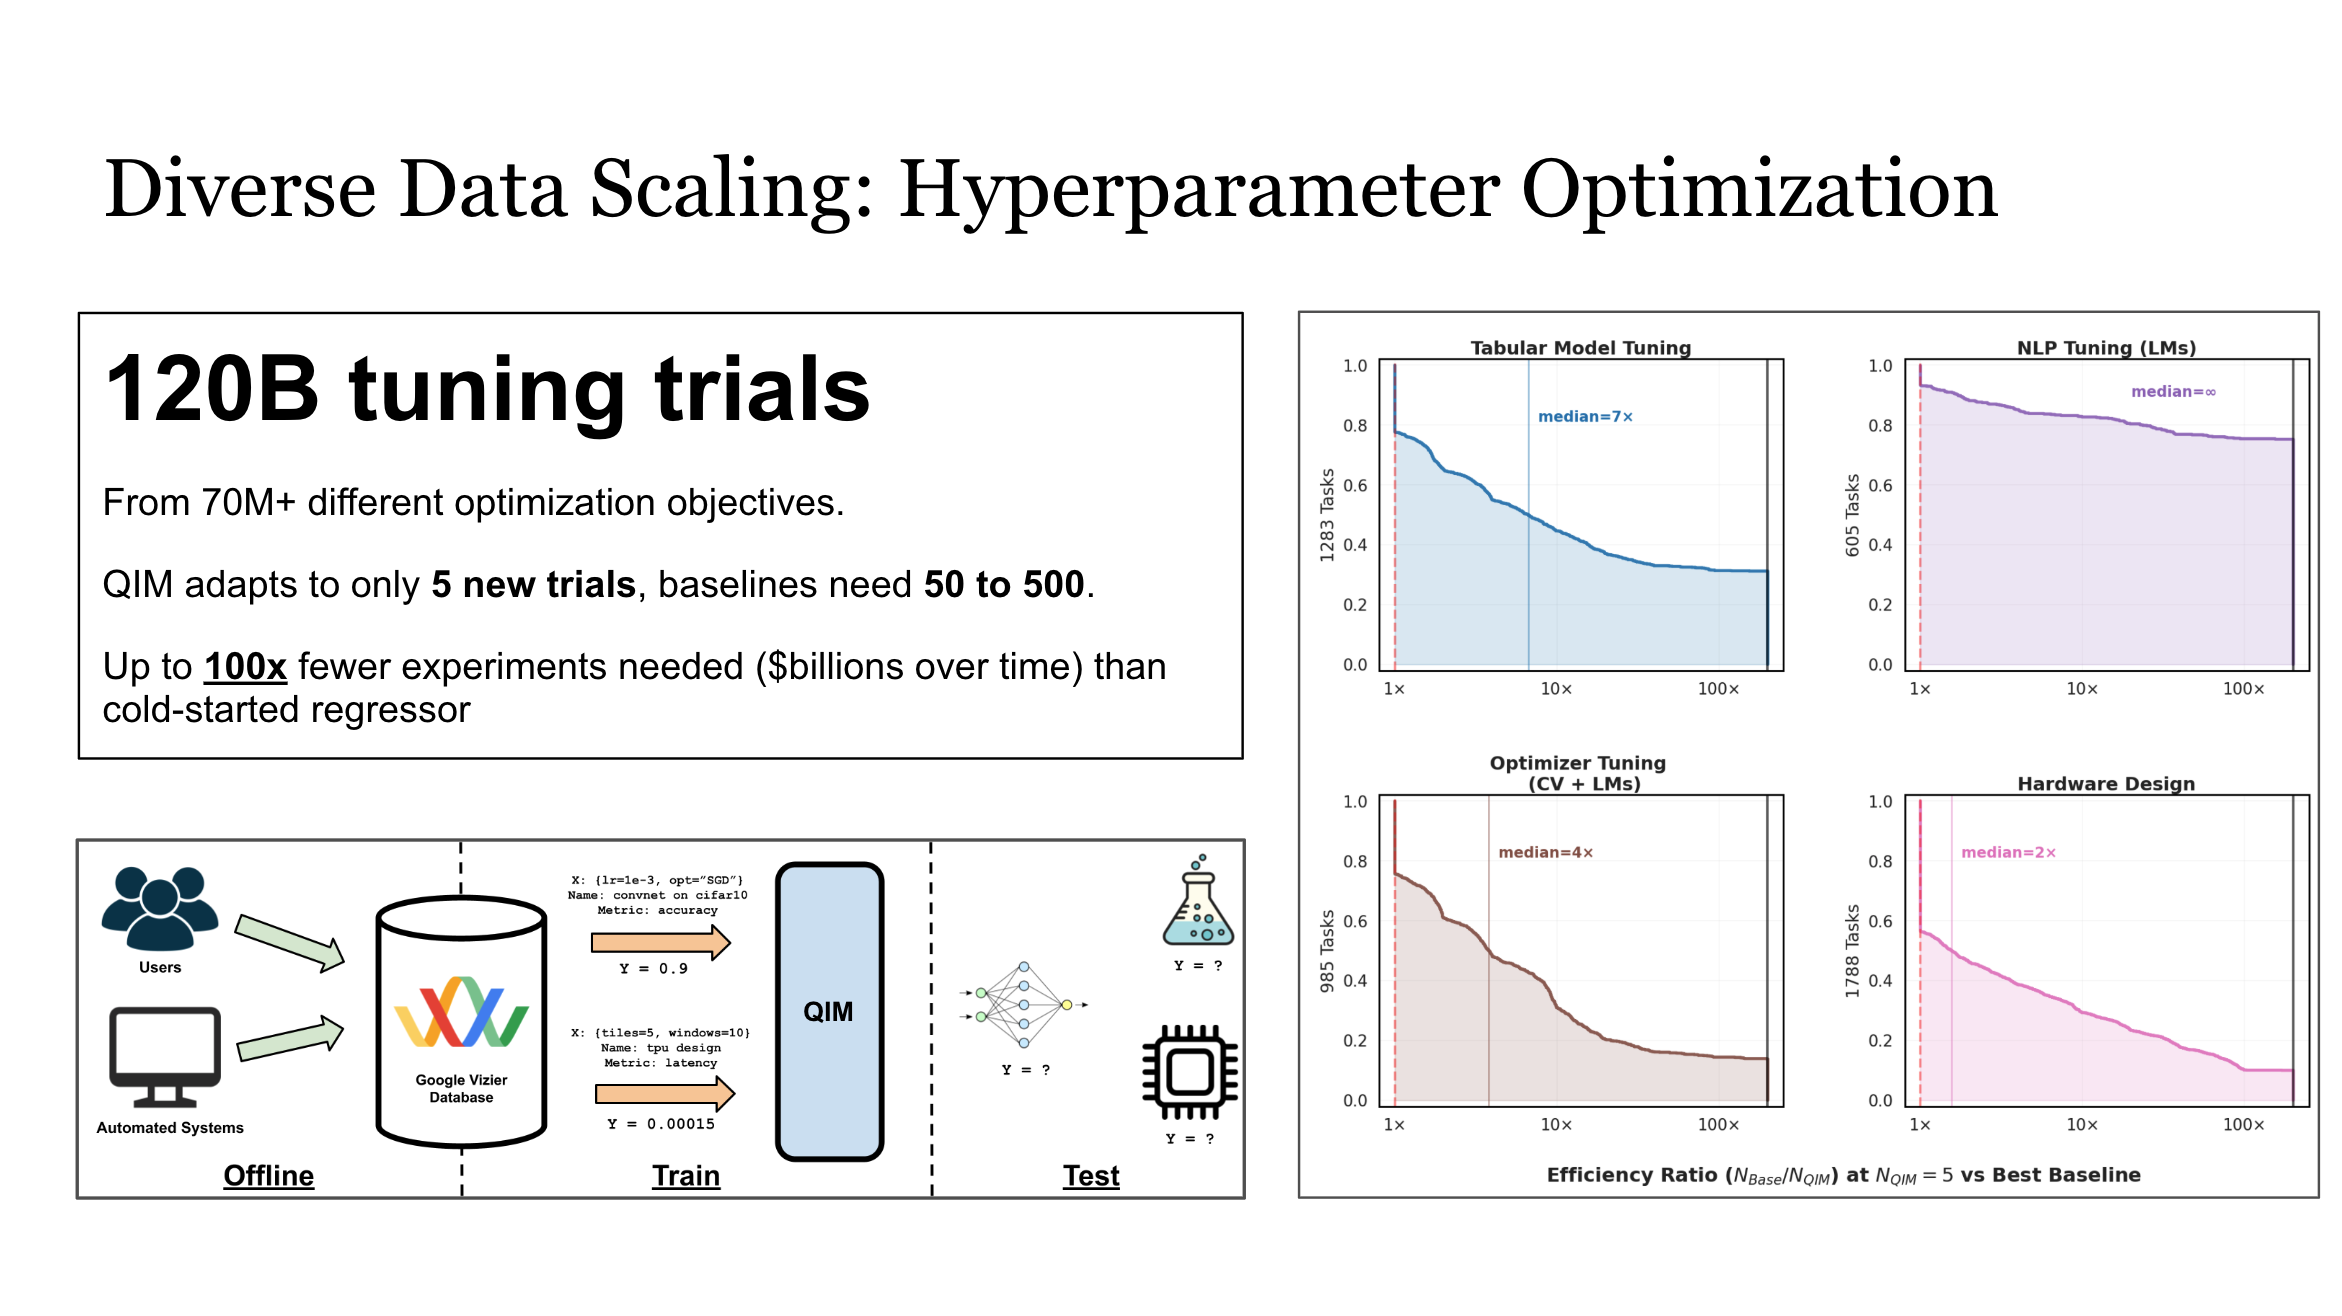
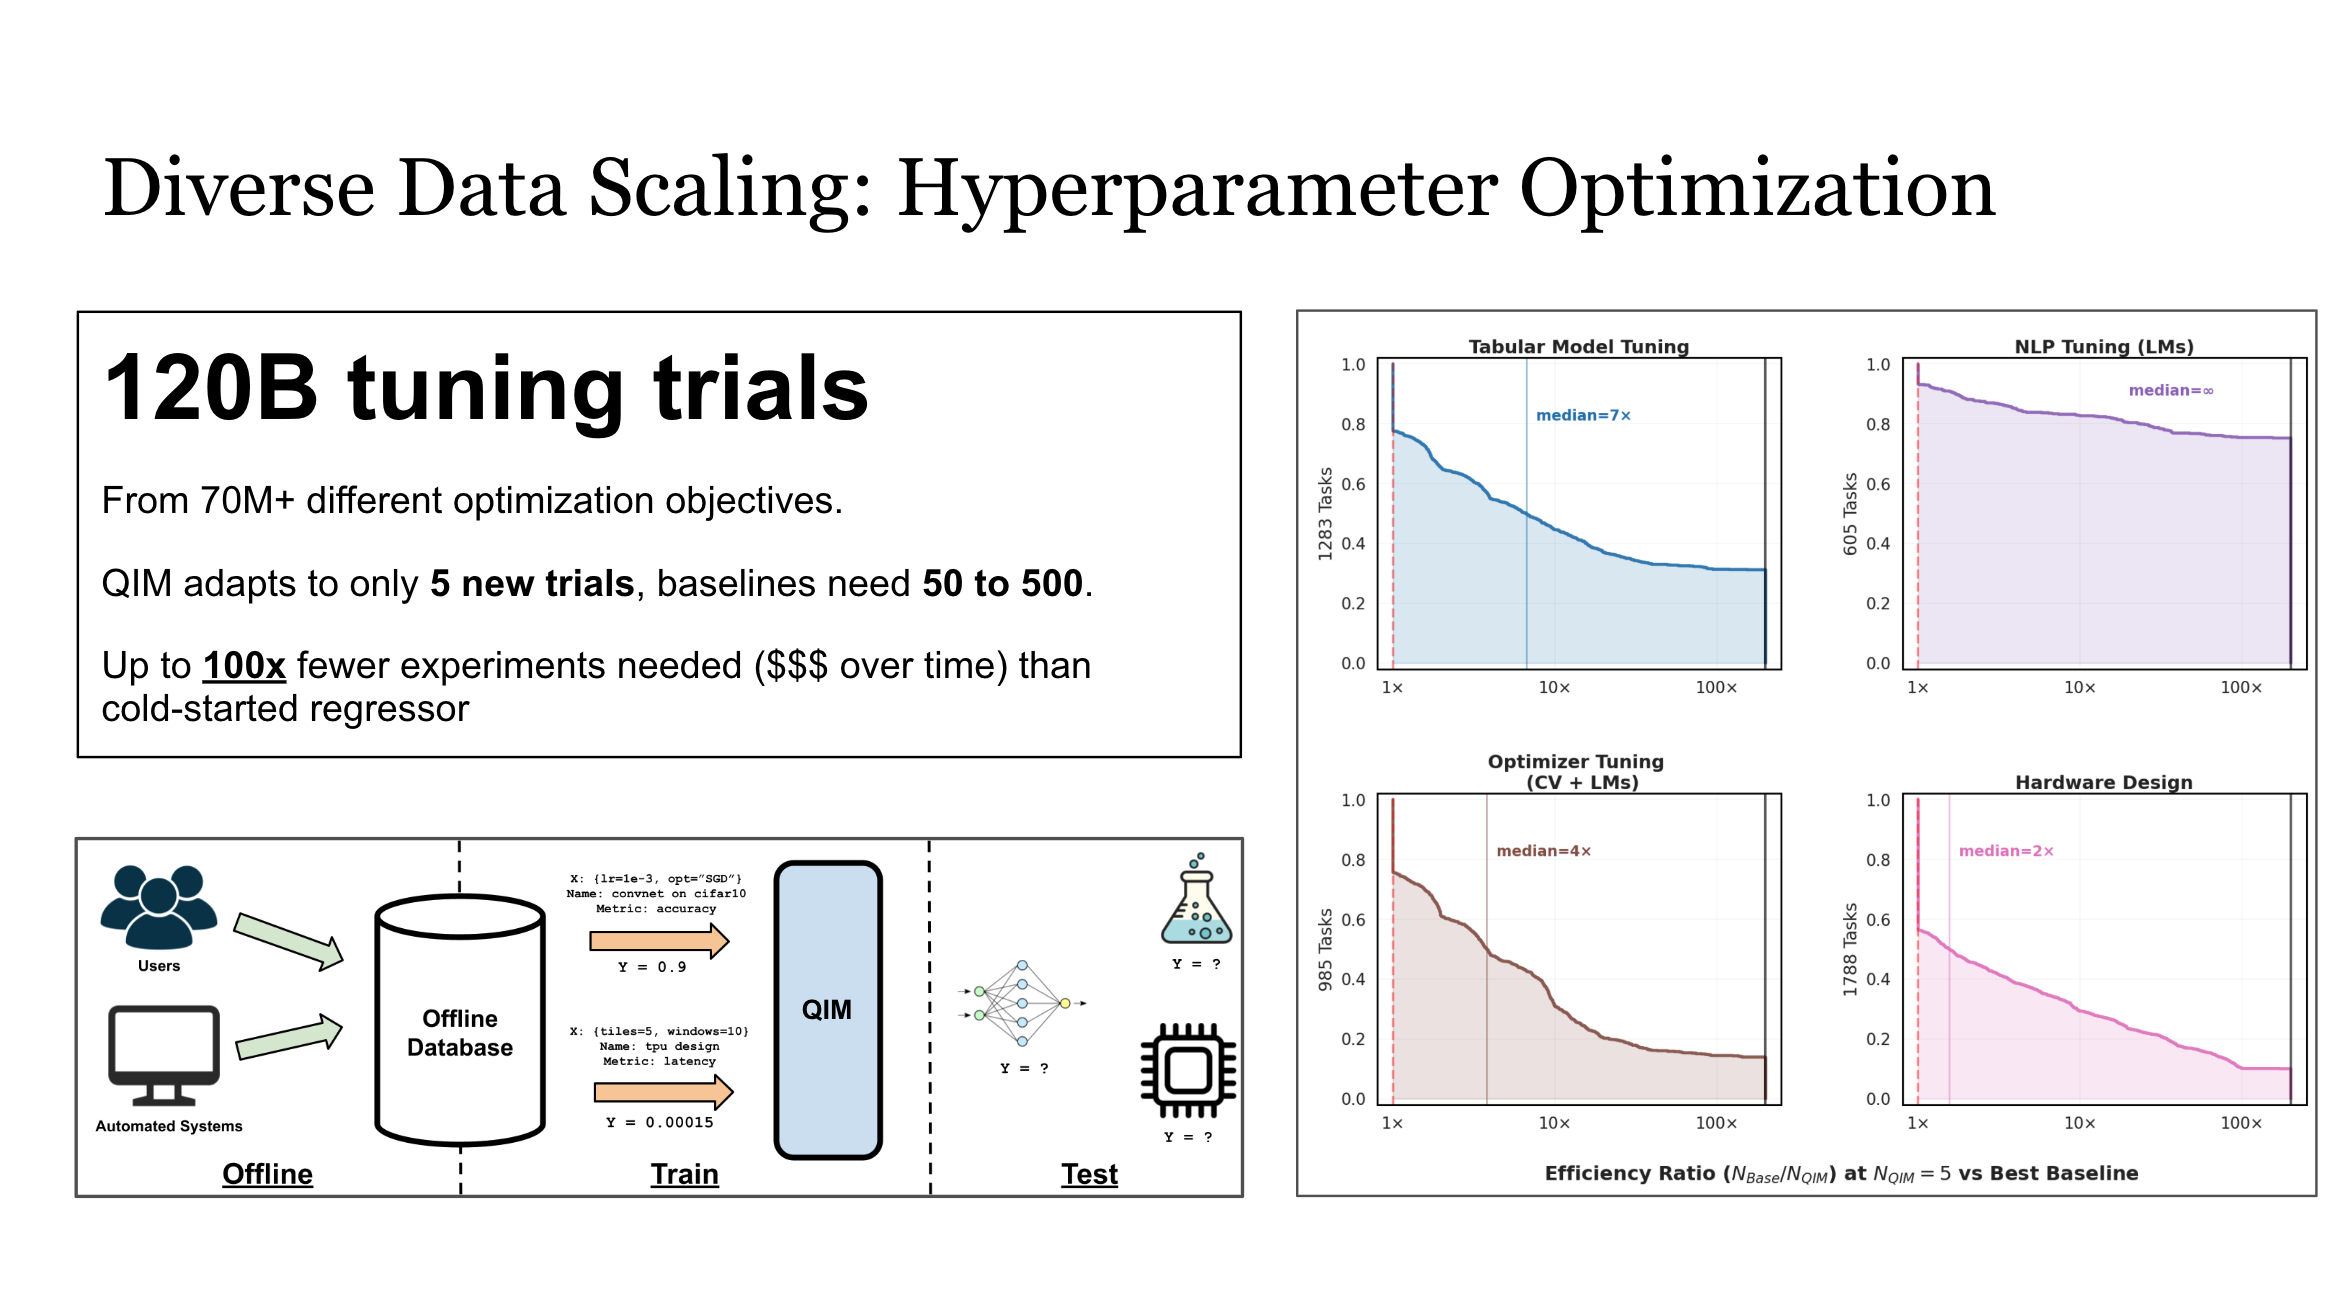
Small wording changes
PiperOrigin-RevId: 931152277

diff --git a/docs/index.md b/docs/index.md
@@ -307,12 +307,12 @@ Given an observation of a complex system, **what number(s) will it produce?**
 * What is the survival prognosis for this patient with cancer?
 -->
 
-Historically, entire fields have traditionally resorted to _tabular regression_ which represents all information as tables, or precisely, normalized fixed-dimensional vectors. But the world isn't a table. Tabular methods can't be applied to data possessing arbitrary _sequence_ lengths, such as code, logs, or free-form text.
+Historically, entire fields have resorted to traditional _tabular regression_ which represents all information as tables, or precisely, normalized fixed-dimensional vectors. But the world isn't a table. Tabular methods can't be applied to data possessing arbitrary _sequence_ lengths, such as code, logs, or free-form text.
 
 We instead represent numeric prediction as a **sequence-to-sequence** problem.
 
 ## Method Overview
-An encoder-decoder converts, or _transduces_, from the space of all observations into another: the space of all real numbers.
+A compact encoder-decoder converts, or _transduces_, from the space of all observations into another: the space of all real numbers.
 
 <img class="teaser-gif" src="assets/method_preview.png" alt="Method Preview">
 